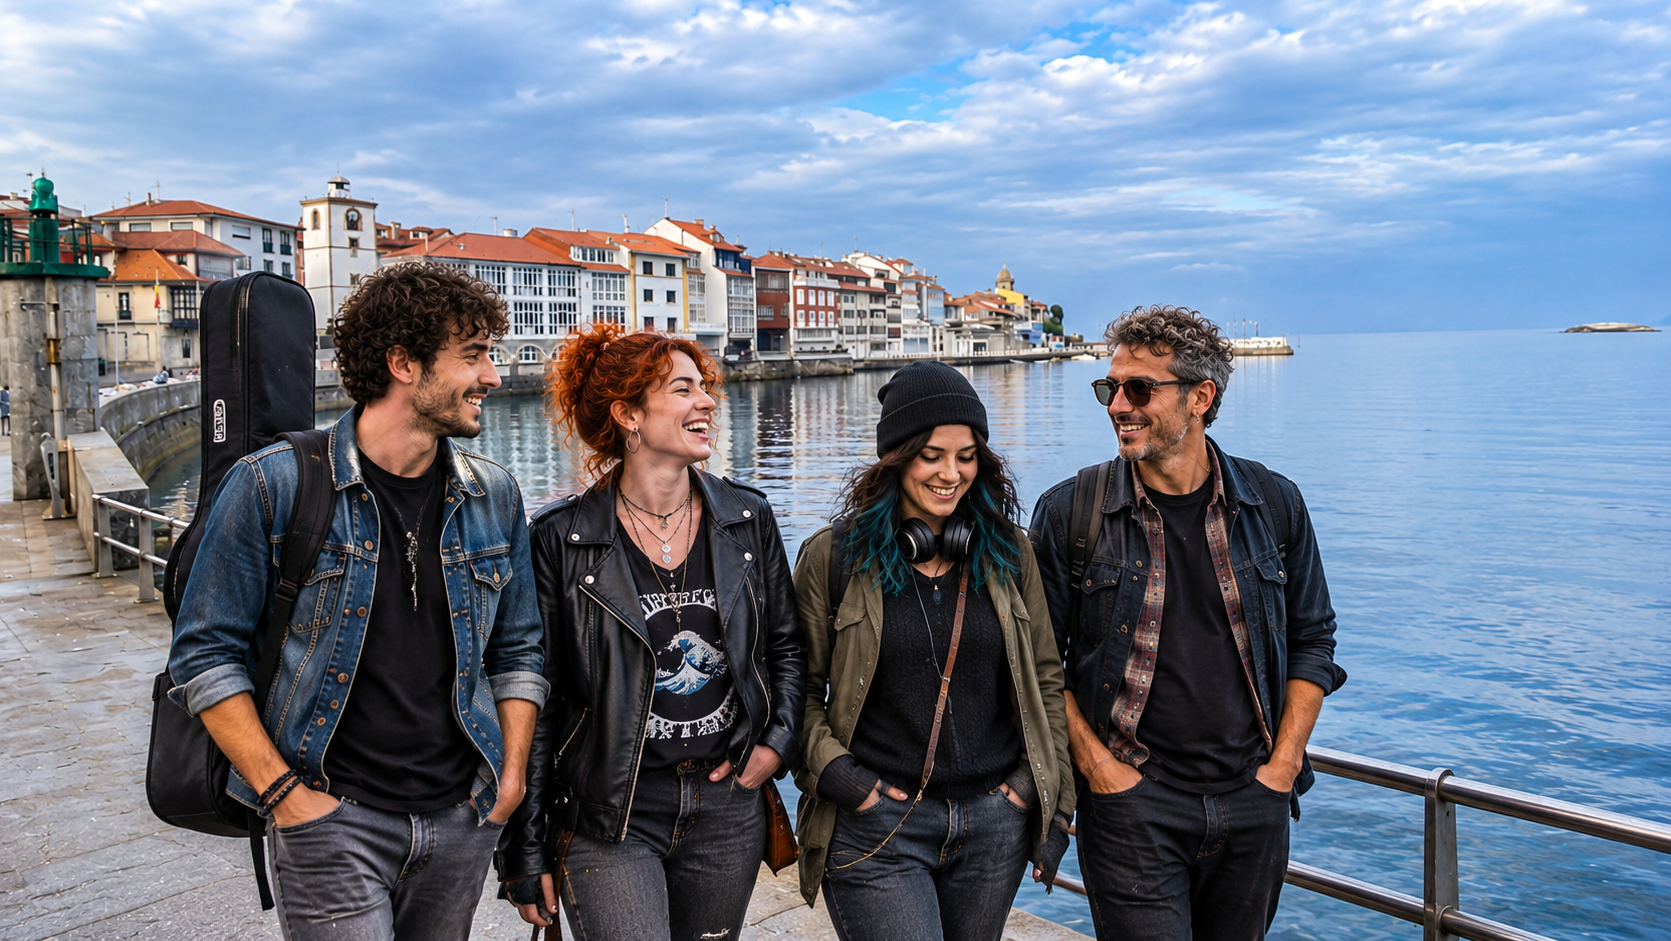
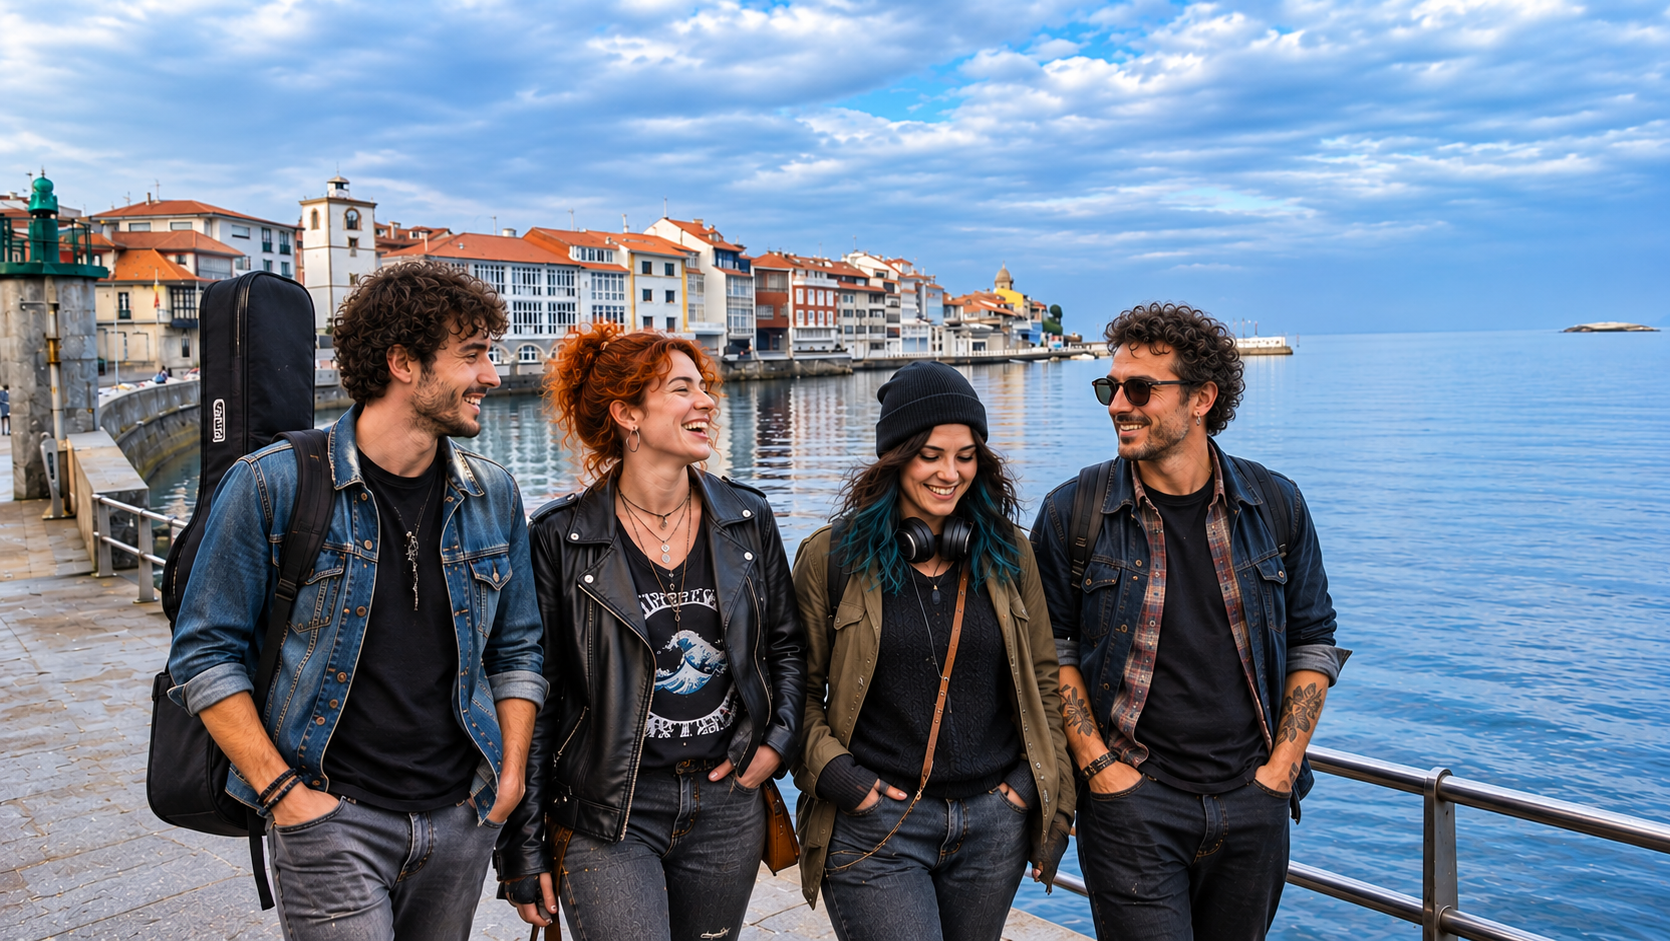
Actualizar carrusel y fotografias de Mareas de Sal

diff --git a/src/main.js b/src/main.js
@@ -67,7 +67,7 @@ app.innerHTML = `
   <!-- =========================================
        BARRA DE NAVEGACIÓN
        ========================================= -->
-  <nav class="navbar navbar-expand-lg navbar-dark bg-dark">
+  <nav class="navbar navbar-expand-lg bg-dark" data-bs-theme="dark">
     <div class="container">
 
       <!-- Nombre de la banda -->
@@ -94,7 +94,7 @@ app.innerHTML = `
 
           <li class="nav-item">
             <a class="nav-link" href="#grupo">El grupo</a>
-          </li>
+          </li>Contacto
 
           <li class="nav-item">
             <a class="nav-link" href="#discografia">Discografía</a>
@@ -108,7 +108,35 @@ app.innerHTML = `
             <a class="nav-link" href="#contacto">Contacto</a>
           </li>
 
-        </ul>
+       
+        
+        <!-- Menú desplegable de navegación -->
+        <li class="nav-item dropdown">
+          <a
+            class="nav-link dropdown-toggle"
+            href="#"
+            id="menuDesplegable"
+            role="button"
+            data-bs-toggle="dropdown"
+            aria-expanded="false"
+          >
+            Descubre más
+          </a>
+
+          <ul class="dropdown-menu" aria-labelledby="menuDesplegable">
+            <li>
+              <a class="dropdown-item" href="#grupo">Conoce a la banda</a>
+            </li>
+            <li>
+              <a class="dropdown-item" href="#discografia">Nuestra música</a>
+            </li>
+            <li>
+              <a class="dropdown-item" href="#gira">Próximos conciertos</a>
+            </li>
+          </ul>
+        </li>
+        <!-- Fin del menú desplegable -->
+      </ul>
       </div>
 
     </div>
